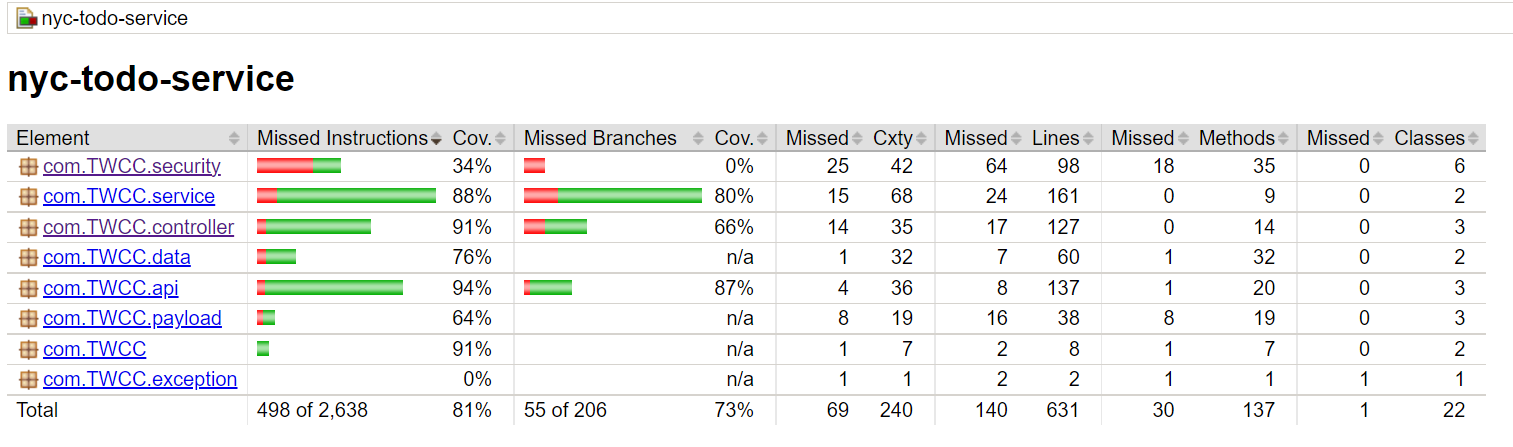
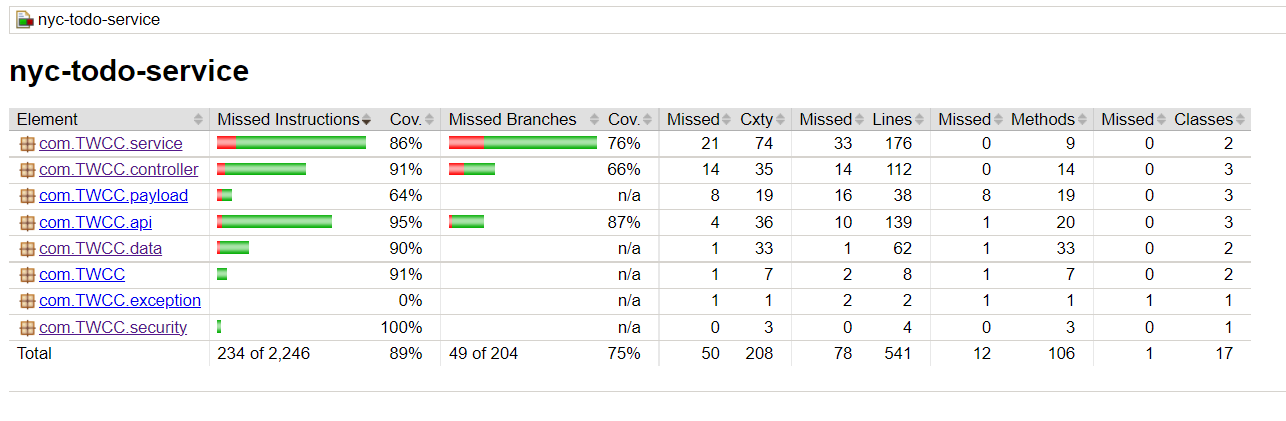
Wrote partial E2E/integration tests for EventController - Updated README to include updated report screenshots - Removed vestigial code

diff --git a/service/src/test/java/com/TWCC/controller/EventControllerIntegrationTest.java b/service/src/test/java/com/TWCC/controller/EventControllerIntegrationTest.java
@@ -1,0 +1,126 @@
+package com.TWCC.controller;
+
+import static org.junit.jupiter.api.Assertions.*;
+
+import java.sql.Timestamp;
+import java.util.ArrayList;
+import java.util.Date;
+import java.util.List;
+import java.util.Optional;
+
+import org.junit.jupiter.api.BeforeEach;
+import org.junit.jupiter.api.Test;
+import org.springframework.beans.factory.annotation.Autowired;
+import org.springframework.boot.test.autoconfigure.web.servlet.WebMvcTest;
+import org.springframework.boot.test.context.SpringBootTest;
+import org.springframework.http.HttpStatus;
+import org.springframework.http.ResponseEntity;
+import org.springframework.test.context.ActiveProfiles;
+
+import com.TWCC.data.Event;
+import com.TWCC.payload.MessageResponse;
+import com.TWCC.repository.EventRepository;
+
+@SpringBootTest
+@ActiveProfiles("test")
+public class EventControllerIntegrationTest {
+    @Autowired
+    EventController eventController;
+
+    @Autowired
+    EventRepository eventRepository;
+
+    private List<Event> events = new ArrayList<>();
+    private Event event1, event2, event3;
+
+	@BeforeEach
+    void setUp() {
+        event1 = new Event(1, "Columbia", 18, 
+            "Midterm Study session", 
+            "This is a midterm study session", 
+            12.5, 122.34, 0, "www.columbia.edu", 1,
+            "social, study",
+            new Timestamp(new Date().getTime() - 10), 
+            new Timestamp(new Date().getTime() + 5),
+            new Timestamp(new Date().getTime() + 10)
+        );
+
+        event2 = new Event(2, "UW", 18, 
+            "Midterm Study session at UW", 
+            "This is a midterm study session at UW", 
+            12.5, 122.34, 0, "www.uw.edu", 2,
+            "social, study",
+            new Timestamp(new Date().getTime() - 10), 
+            new Timestamp(new Date().getTime() + 5), 
+            new Timestamp(new Date().getTime() + 10)
+        );
+
+        event3 = new Event(3, "Columbia", 18, 
+            "Midterm Study session at UMD", 
+            "This is a midterm study session at UMD", 
+            12.5, 122.34, 0, "www.umd.edu", 3,
+            "social, study",
+            new Timestamp(new Date().getTime() - 10), 
+            new Timestamp(new Date().getTime() + 5), 
+            new Timestamp(new Date().getTime() + 10)
+        );
+
+        events.add(event1);
+        events.add(event2);
+        events.add(event3);
+    }
+    
+    @Test
+    void testGetEvents() {
+        // Given
+        eventRepository.saveAll(events);
+
+        // When
+        List<Event> events = eventController.getEvents();
+
+        // Then
+        assertEquals(3, events.size());
+        assertEquals("Midterm Study session", events.get(0).getName());
+        assertEquals("Midterm Study session at UW", events.get(1).getName());
+        assertEquals("Midterm Study session at UMD", events.get(2).getName());
+    }
+
+    @Test
+    void testGetEventsByIdSuccessfully() {
+        // Given
+        eventRepository.saveAll(events);
+
+        // When
+        ResponseEntity<?> response = eventController.getEventsById(event1.getId());
+
+        try {
+            // Then
+            assertEquals(HttpStatus.OK, response.getStatusCode());
+            Optional<Event> eventResponse = (Optional<Event>) response.getBody();
+            assertEquals(event1.getName(), eventResponse.get().getName());
+        } catch (Exception e) {
+            e.printStackTrace();
+            assertTrue(false);
+        }
+    }
+
+    @Test
+    void testGetEventsByIdNotFound() {
+        // Given
+        eventRepository.saveAll(events);
+
+        // When
+        ResponseEntity<?> response = eventController.getEventsById(5);
+
+        try {
+            // Then
+            assertEquals(HttpStatus.NOT_FOUND, response.getStatusCode());
+            MessageResponse messageResponse = (MessageResponse) response.getBody();
+            assertEquals("Event ID: 5 does not exist", messageResponse.getMessage());
+            assertEquals(HttpStatus.NOT_FOUND.value(), messageResponse.getStatus());
+        } catch (Exception e) {
+            e.printStackTrace();
+            assertTrue(false);
+        }
+    }
+}

diff --git a/service/src/main/java/com/TWCC/repository/EventRepository.java b/service/src/main/java/com/TWCC/repository/EventRepository.java
@@ -3,8 +3,6 @@ package com.TWCC.repository;
 
 import java.util.List;
 
-import org.springframework.data.domain.Pageable;
-import org.springframework.data.jpa.domain.Specification;
 import org.springframework.data.jpa.repository.JpaRepository;
 import org.springframework.stereotype.Repository;
 
@@ -12,14 +10,7 @@ import com.TWCC.data.Event;
 
 @Repository
 public interface EventRepository extends JpaRepository<Event, Integer> {
-    // List<Event> findByAddressOrAgeLimitOrNameOrDescriptionOrLongitudeOrLatitudeOrCostOrMediaOrStartTimeStampOrEndTimeStamp(String addr, int age_limit, String name, String description, Double longitude, Double latitude, Float cost, String media, Timestamp start_timestamp, Timestamp end_timestamp);
     List<Event> findByAddress(String address);
-  
-
-
-    
-    // List<Event> findAll(Specification<Event> spec, Pageable page);
-
 }
 
 

diff --git a/README.md b/README.md
@@ -106,22 +106,22 @@
 ### Checkstyle
 - Directions:
     1. In app root directory: `mvn site`
-    2. Locate Checkstyle report in `target/site/index.html`
-- Most recent Checkstyle run: `0 warnings, 0 errors`
-    ![Checkstyle report](./service/reports/t3-checkstyle-report.png)
+    2. Locate Checkstyle report in `target/site/checkstyle.html`
+- Most recent Checkstyle run: `0 warnings, 338 errors`
+    ![Checkstyle report](./service/reports/t5-checkstyle-report.png)
 
 ### Test Coverage
 - Directions:
     1. In app root directory: `mvn clean test`
     2. Locate Checkstyle report in `target/site/jacoco/index.html`
-- Most recent Jacoco coverage run: `Instruction Coverage: 81%, Branch Coverage: 73%`
+- Most recent Jacoco coverage run: `Instruction Coverage: 89%, Branch Coverage: 75%`
     ![Coverage report](./service/reports/t5-test-coverage-report.png)
 
 ### Static Analysis Bug Finder Tool
 - Directions:
     1. In `service/` directory: `mvn site`
     2. Locate SpotBugs report in `target/site/spotbugs.html`
-- Most recent SpotBugs coverage run:
+- Most recent SpotBugs coverage run: `Classes 26, Bugs: 24, Errors: 0, Missing Classes: 0`
     ![Coverage report](./service/reports/t5-static-analysis-bug-finder-report.png)
 
 ### CI/CD Workflow Reports
